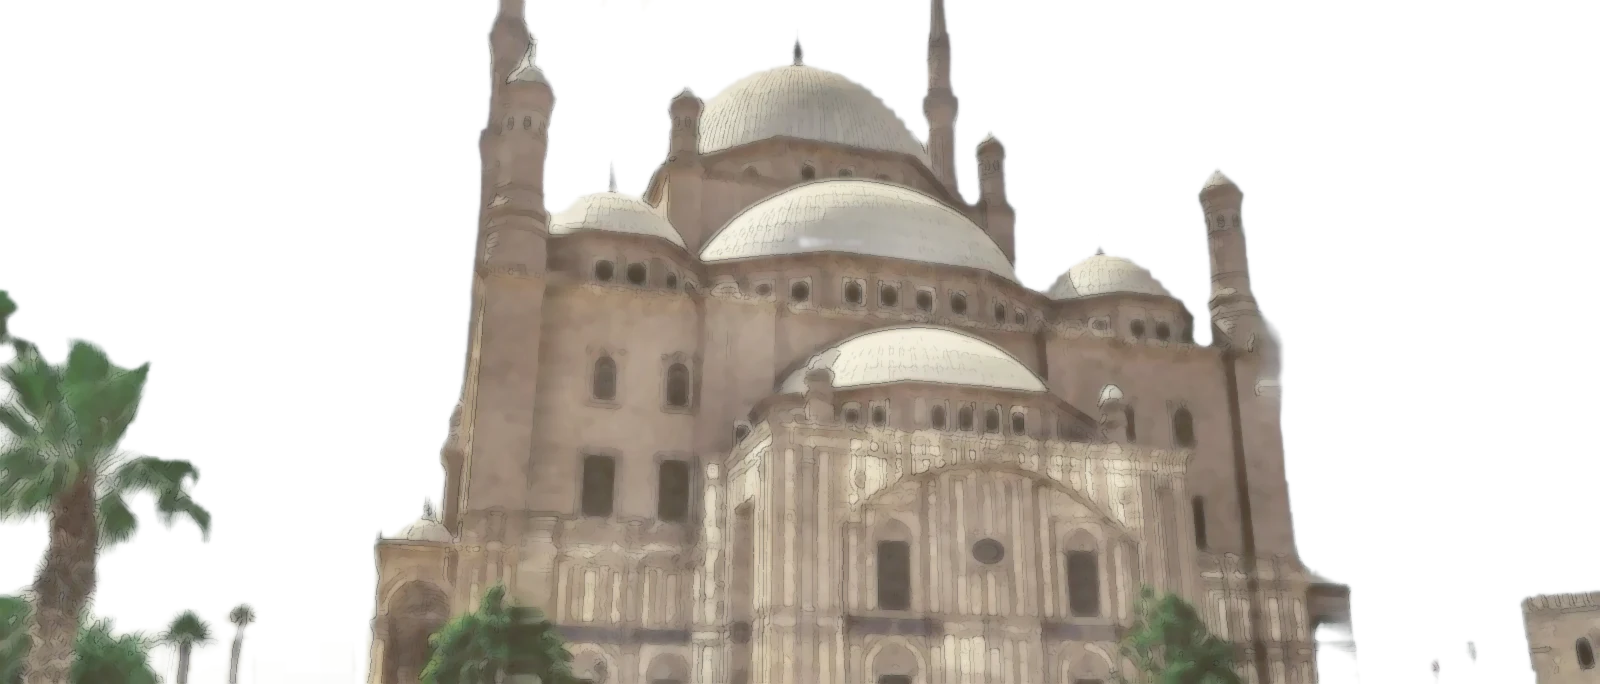
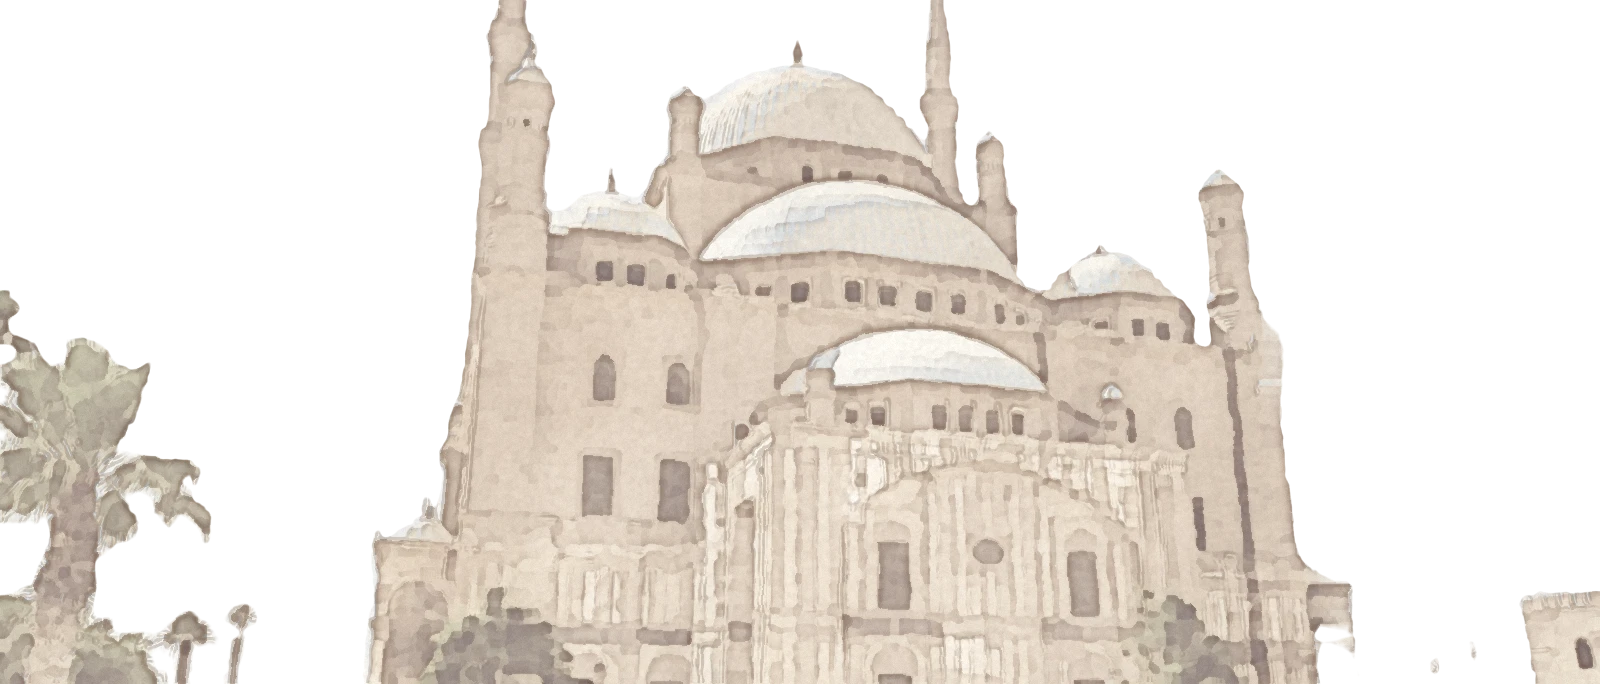
Repaint the mosque in the invitation's watercolor style
Replaces the filtered photo with a hand-painted look: Kuwahara brush strokes,
pale cream/taupe palette matched to the original invitation, pigment pooling
at edges, uneven washes, paper texture, cool dome shading and a soft,
irregular painted silhouette.

diff --git a/index.html b/index.html
@@ -141,7 +141,6 @@
     --h: 61cqh;                       /* horizon: where the garden starts */
     width: 168cqw; height: auto; max-width: none; left: calc(50cqw - 168cqw * .5375);
     top: calc(var(--h) - 168cqw * 684 / 1600);
-    filter: saturate(.78) brightness(1.07) contrast(.9);
     animation: drift 30s ease-in-out infinite alternate;
   }
   @keyframes drift { to { transform: scale(1.035) translateY(-.6cqh); } }
@@ -236,7 +235,7 @@
     content: ""; position: absolute; left: 50%; top: 150px; width: 170%; aspect-ratio: 1600 / 684;
     transform: translateX(-53.75%);
     background: url("assets/mosque.webp") center / contain no-repeat;
-    opacity: .13; pointer-events: none;
+    opacity: .22; pointer-events: none;
     -webkit-mask-image: linear-gradient(#000 40%, transparent 95%); mask-image: linear-gradient(#000 40%, transparent 95%);
   }
   .card > * { position: relative; z-index: 2; }
